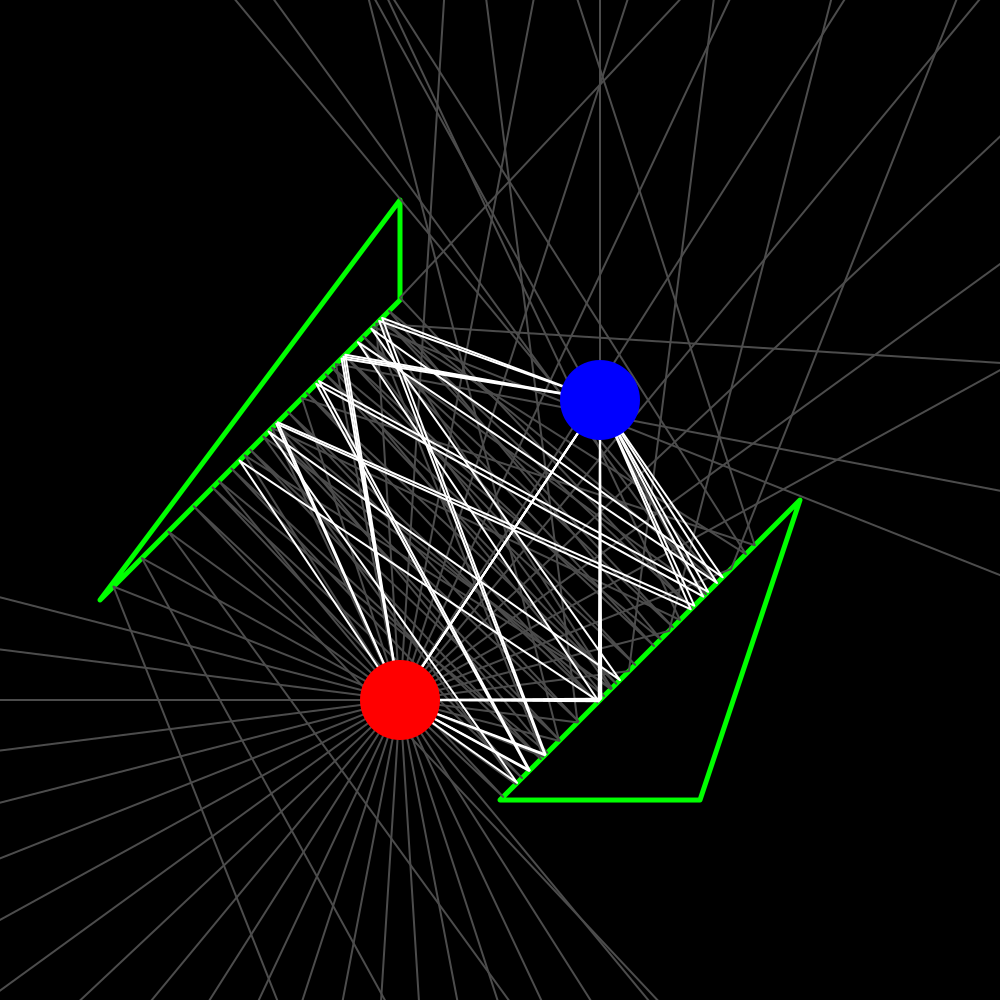
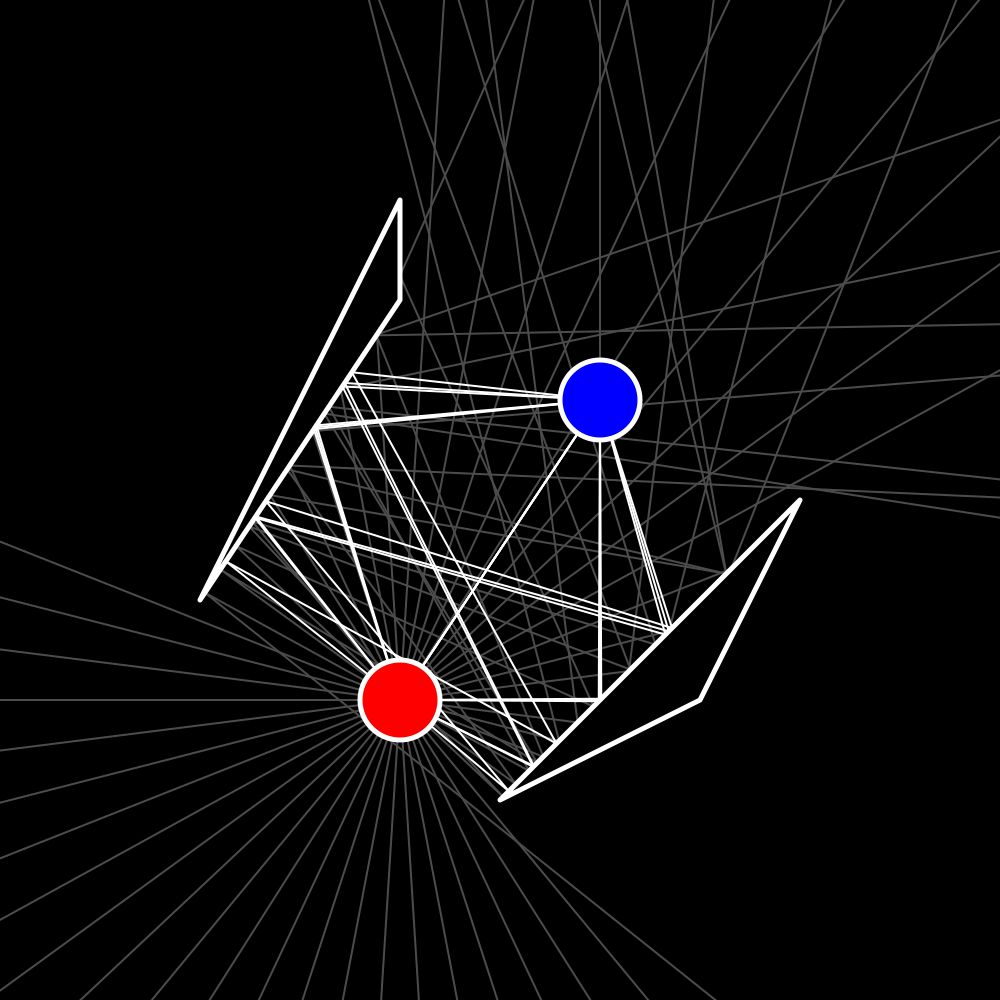
changed some rendering

diff --git a/main.py b/main.py
@@ -6,8 +6,8 @@ from multipatprop import System, Transmitter, Receiver, Interferer, Vector, Poin
 
 transmitter = Transmitter(Point(4, 3))
 receiver = Receiver(Point(6, 6))
-interferers = [Interferer([Point(7, 2), Point(8, 5), Point(5, 2)]),
-               Interferer([Point(1, 4), Point(4, 7), Point(4, 8)])]
+interferers = [Interferer([Point(7, 3), Point(8, 5), Point(5, 2)]),
+               Interferer([Point(2, 4), Point(4, 7), Point(4, 8)])]
 
 system = System(transmitter, receiver, interferers)
 paths = system.get_paths(starting_number=50, max_reflections=30)
@@ -16,25 +16,25 @@ paths_propagated = system.get_paths_propagated(starting_number=1000, receiver_di
 camera_position = Point(5, 5)
 camera_zoom = 0.1
 
-p = system.get_path(Vector(1, 0), max_reflections=10)
-print(p)
+
+svg = cairo.SVGSurface("example.svg", 200, 200)
+
 
 with cairo.ImageSurface(cairo.FORMAT_RGB24, 1000, 1000) as surface:
     context = cairo.Context(surface)
     context.scale(1000, 1000)
+
+    context.set_source_rgb(0, 0, 0)
+    context.rectangle(0, 0, 1, 1)
+    context.fill()
+
+
+
     context.translate(0.5, 0.5)
     context.scale(1, -1)
     context.scale(camera_zoom, camera_zoom)
     context.translate(-camera_position.x, -camera_position.y)
 
-    for interferer in system.interferers:
-        for point in interferer.points:
-            context.line_to(point.x, point.y)
-        context.close_path()
-        context.set_source_rgb(0, 1, 0)
-        context.set_line_width(0.05)
-        context.set_line_join(cairo.LINE_JOIN_ROUND)
-        context.stroke()
 
     for path in paths:
         for point in path[0]:
@@ -45,6 +45,7 @@ with cairo.ImageSurface(cairo.FORMAT_RGB24, 1000, 1000) as surface:
         context.set_source_rgb(0.3, 0.3, 0.3)
         context.set_line_width(0.02)
         context.set_line_join(cairo.LINE_JOIN_ROUND)
+        context.set_line_cap(cairo.LINE_CAP_ROUND)
         context.stroke()
 
     for path_propagated in paths_propagated:
@@ -54,14 +55,37 @@ with cairo.ImageSurface(cairo.FORMAT_RGB24, 1000, 1000) as surface:
         context.set_source_rgb(1, 1, 1)
         context.set_line_width(0.02)
         context.set_line_join(cairo.LINE_JOIN_ROUND)
+        context.set_line_cap(cairo.LINE_CAP_ROUND)
+        context.stroke()
+
+    for interferer in system.interferers:
+        for point in interferer.points:
+            context.line_to(point.x, point.y)
+        context.close_path()
+        context.set_source_rgb(0, 0, 0)
+        context.fill_preserve()
+        context.set_source_rgb(1, 1, 1)
+        context.set_line_width(0.05)
+        context.set_line_join(cairo.LINE_JOIN_ROUND)
+        context.set_line_cap(cairo.LINE_CAP_ROUND)
         context.stroke()
 
     context.arc(system.transmitter.position.x, system.transmitter.position.y, 0.4, 0, tau)
     context.set_source_rgb(1, 0, 0)
-    context.fill()
+    context.fill_preserve()
+    context.set_source_rgb(1, 1, 1)
+    context.set_line_width(0.05)
+    context.set_line_join(cairo.LINE_JOIN_ROUND)
+    context.set_line_cap(cairo.LINE_CAP_ROUND)
+    context.stroke()
 
     context.arc(system.receiver.position.x, system.receiver.position.y, 0.4, 0, tau)
     context.set_source_rgb(0, 0, 1)
-    context.fill()
+    context.fill_preserve()
+    context.set_source_rgb(1, 1, 1)
+    context.set_line_width(0.05)
+    context.set_line_join(cairo.LINE_JOIN_ROUND)
+    context.set_line_cap(cairo.LINE_CAP_ROUND)
+    context.stroke()
 
     surface.write_to_png("render.png")
